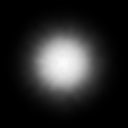
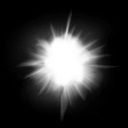
src, media: more particle stuffs

Changed region(s): [[0.1562, 0.0938, 0.8125, 0.9062]]

diff --git a/src/game/weapon.cpp b/src/game/weapon.cpp
@@ -517,7 +517,7 @@ namespace game
         {
             case ATK_PULSE_SHOOT:
                 if(muzzleflash && d->muzzle.x >= 0)
-                    particle_flare(d->muzzle, d->muzzle, 250, PART_PULSE_MUZZLE_FLASH, 0x50CFE5, 3.0f, d);
+                    particle_flare(d->muzzle, d->muzzle, 140, PART_PULSE_MUZZLE_FLASH, 0x50CFE5, 3.0f, d);
                 newprojectile(from, to, attacks[atk].projspeed, local, id, d, atk);
                 break;
 
@@ -525,7 +525,7 @@ namespace game
                 particle_splash(PART_SPARK, 200, 250, to, 0x50CFE5, 0.45f);
                 particle_flare(hudgunorigin(gun, from, to, d), to, 500, PART_RAIL_TRAIL, 0x50CFE5, 0.5f);
                 if(muzzleflash && d->muzzle.x >= 0)
-                    particle_flare(d->muzzle, d->muzzle, 150, PART_RAIL_MUZZLE_FLASH, 0x50CFE5, 1.25f, d);
+                    particle_flare(d->muzzle, d->muzzle, 140, PART_RAIL_MUZZLE_FLASH, 0x50CFE5, 2.75f, d);
                 if(!local) raildecal(from, to);
                 if(muzzlelight) adddynlight(hudgunorigin(gun, d->o, to, d), 35, vec(0.25f, 0.75f, 1.00f), 75, 75, DL_FLASH, 0, vec(0, 0, 0), d);
                 break;
